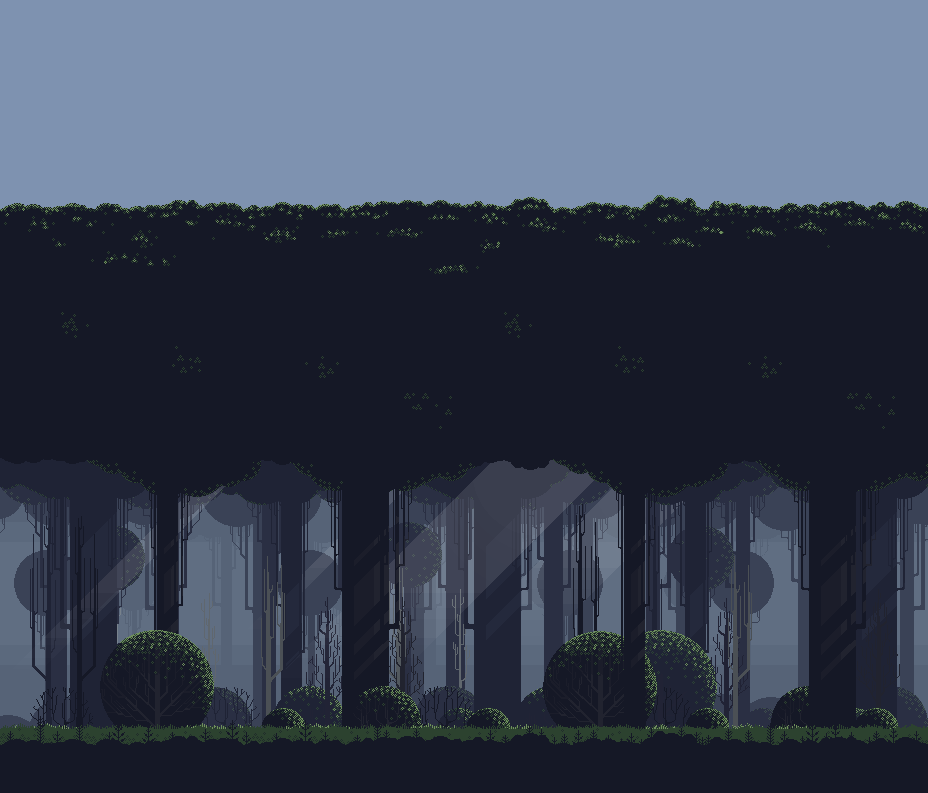
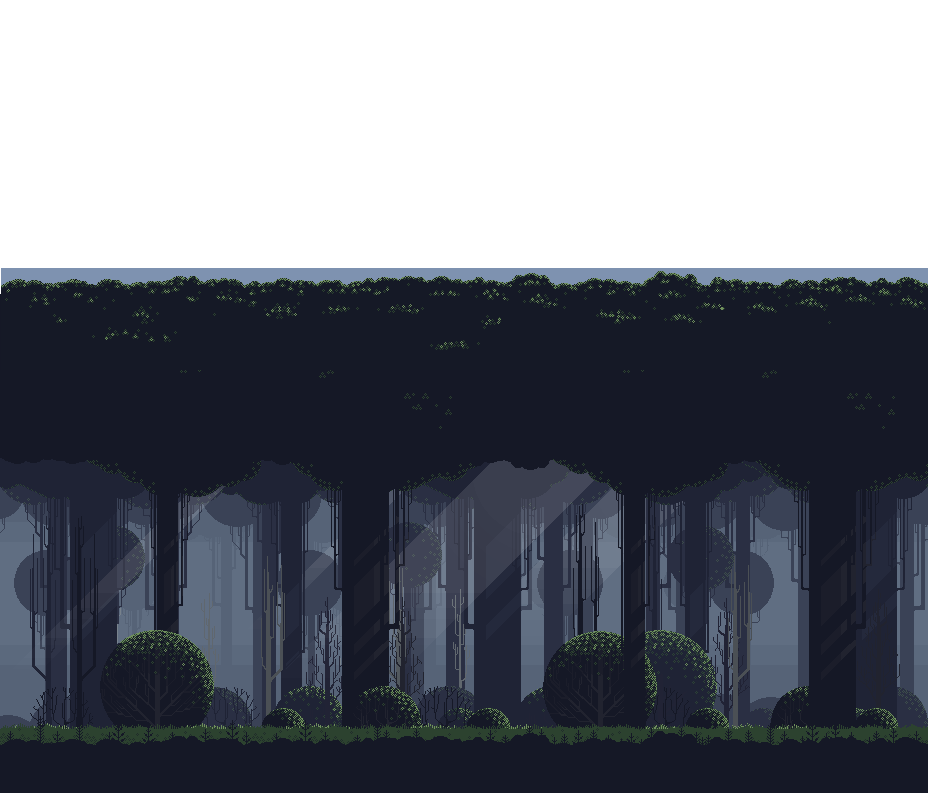
emily figured out that we can change the speed of the background

diff --git a/index.js b/index.js
@@ -37,6 +37,13 @@ function Drawable() {
 		this.width = width*2;
 		this.height = height*2;
 	}
+	this.speed = 0;
+
+	this.draw = function() {
+	};
+	this.move = function() {
+	};
+
 }
 
 /**
@@ -45,12 +52,12 @@ function Drawable() {
  * canvas and creates the illusion of moving by panning the image.
  */
 function Background() {
-	// this.speed = 1; // Redefine speed of the background for panning
+	this.speed = 1; // Redefine speed of the background for panning
 	// Implement abstract function
 	this.draw = function() {
 		///************************************************************************
 		// // Pan background
-		// this.x += this.speed;
+		this.x += this.speed;
 		// this.context.drawImage(imageRepository.background, this.x, this.y);
 		// // Draw another image at the top edge of the first image
 		// this.context.drawImage(imageRepository.background, this.x-this.canvasWidth, this.y);
